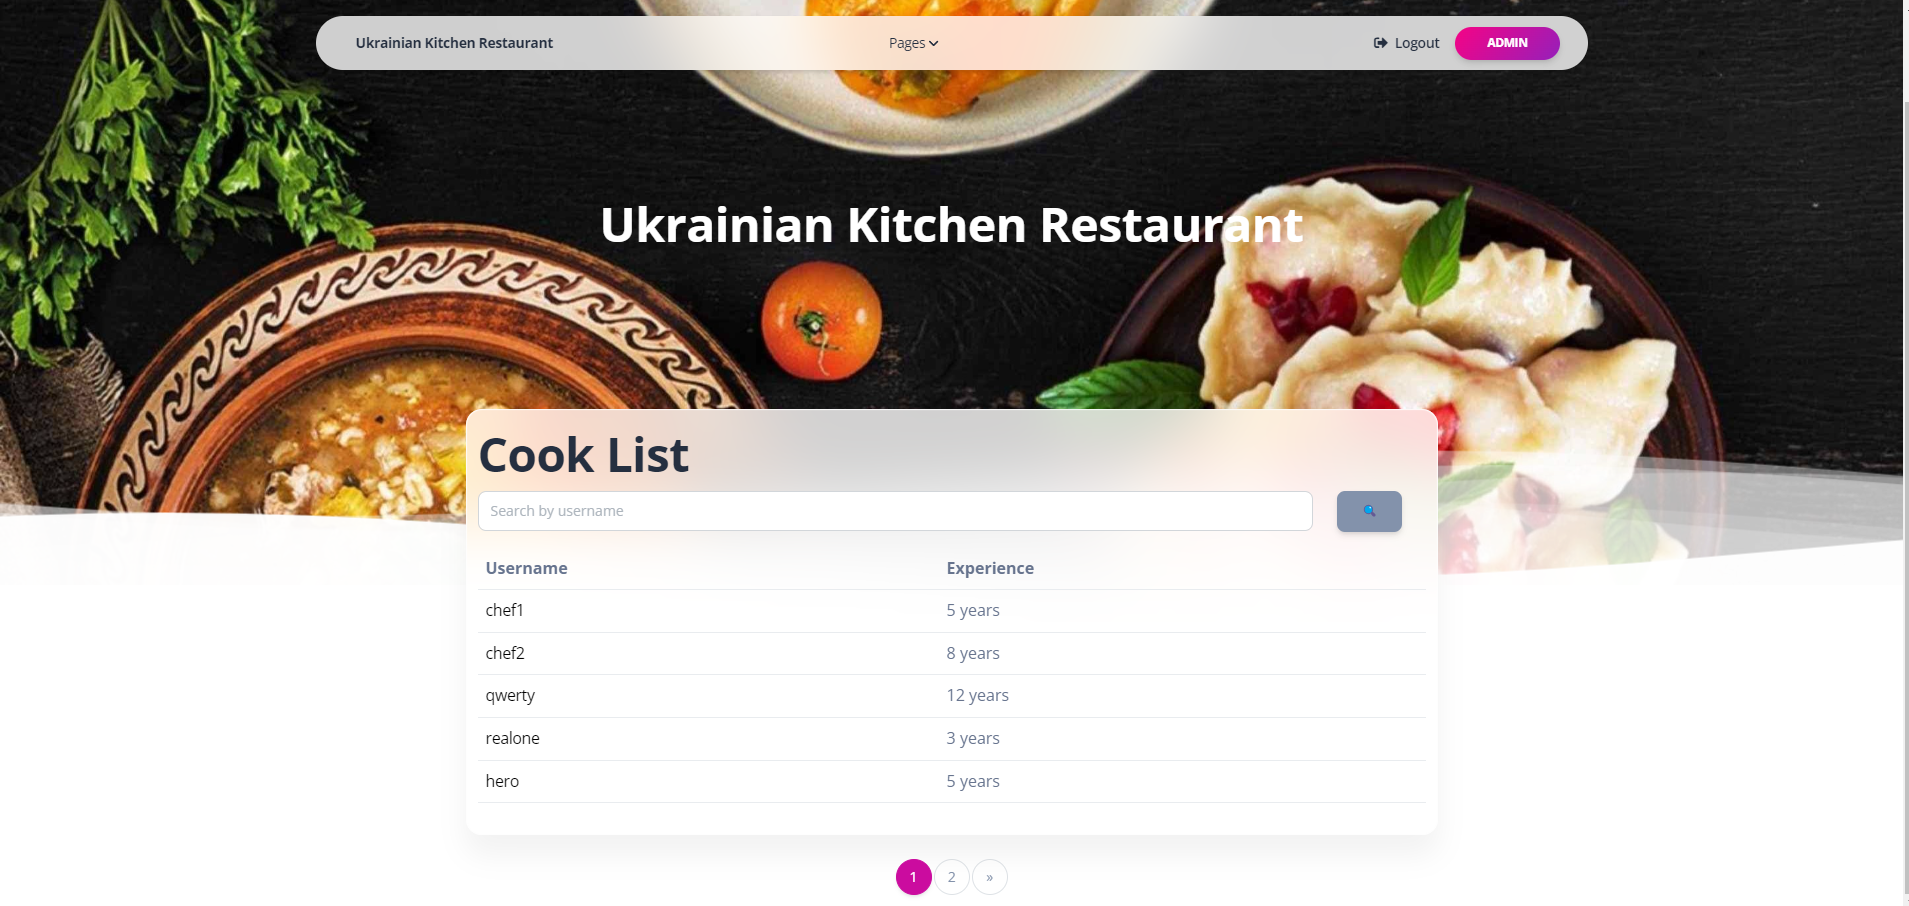
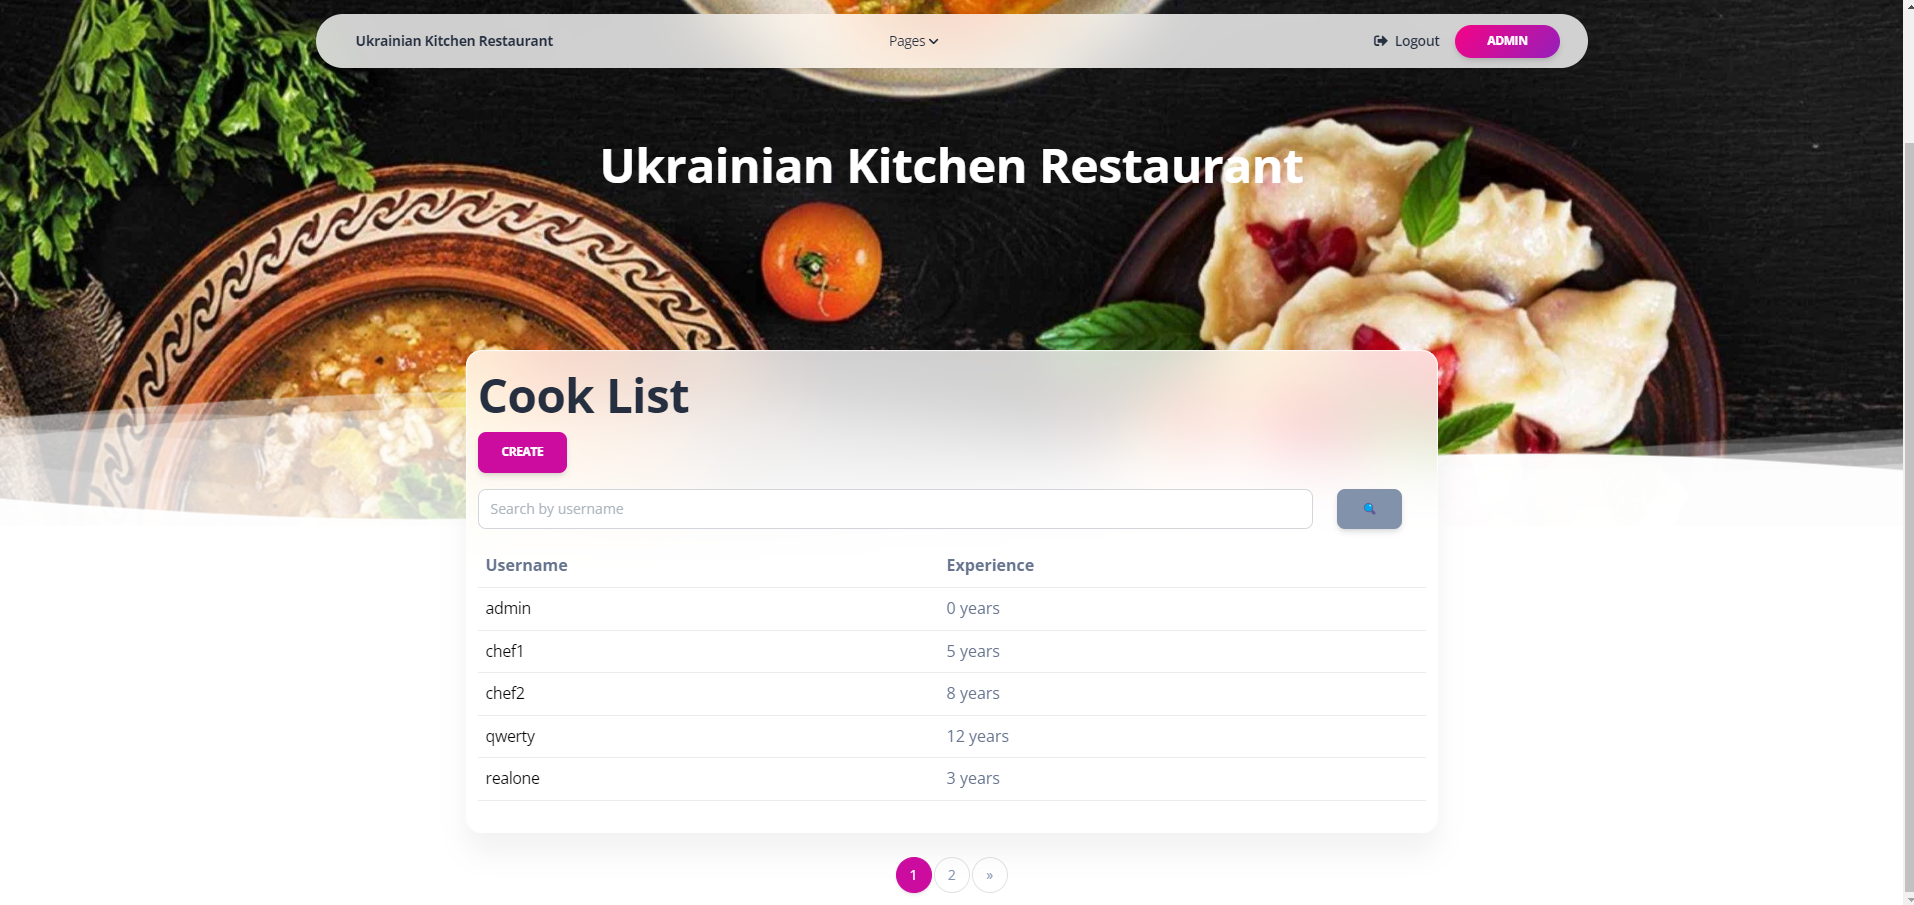
add Creation of cook on the page

diff --git a/templates/kitchen_restaurant/cook_list.html b/templates/kitchen_restaurant/cook_list.html
@@ -10,7 +10,7 @@
   <header class="header-2">
     <div class="page-header section-height-75 relative" style="background-image: url('{{ ASSETS_ROOT }}/img/curved-images/curved.jpg')">
       <div class="container">
-        <div class"row">
+        <div class="row">
           <div class="col-lg-7 text-center mx-auto">
             <h1 class="text-white pt-3 mt-n5">
               <a class="text-white" target="_blank" href="https://appseed.us/ui-kit/soft-ui-design-system">Ukrainian Kitchen Restaurant</a>
@@ -41,6 +41,11 @@
       <div class="row">
         <div class="col-lg-9 z-index-2 border-radius-xl mt-n10 mx-auto py-3 blur shadow-blur">
           <h1>Cook List</h1>
+          {% if user.is_staff %}
+            <a href="{% url 'kitchen_restaurant:cook-create' %}" class="btn btn-primary link-to-page">
+              Create
+            </a>
+          {% endif %}
           <form method="get" action="" class="form-inline">
             <div class="row w-100">
               <div class="col">
